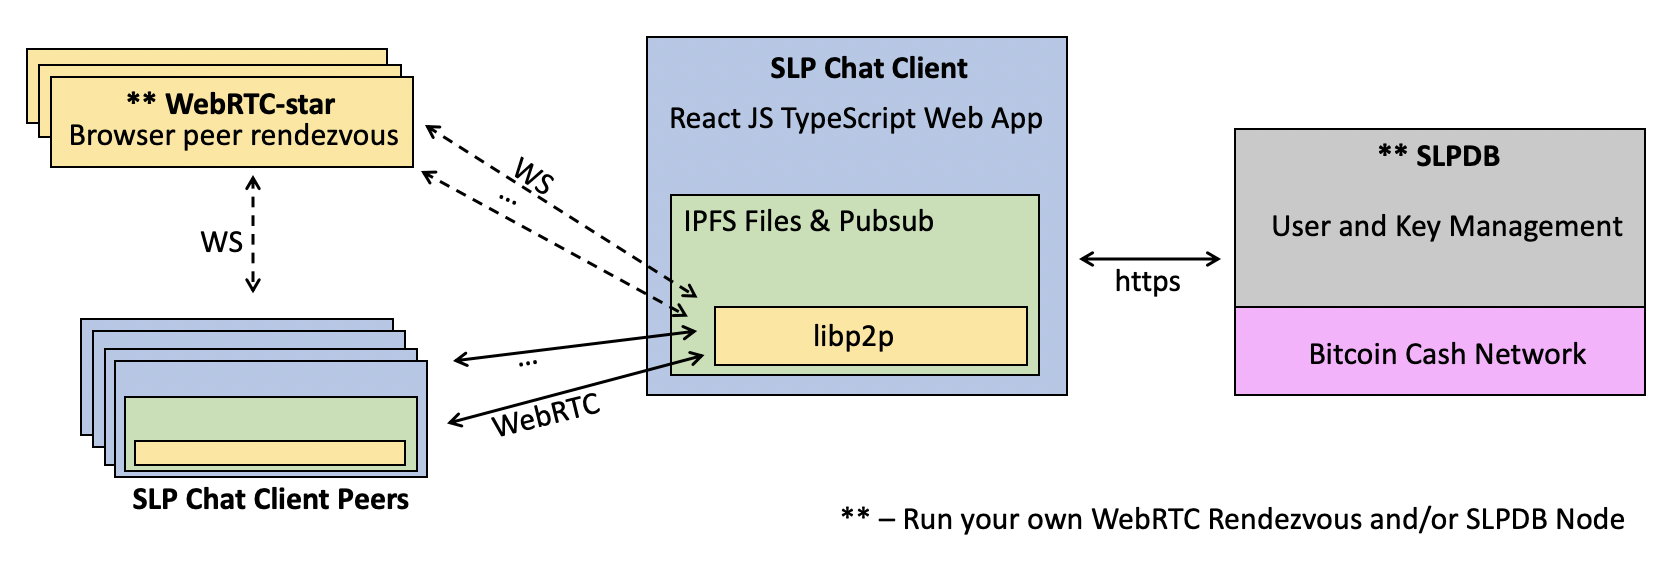
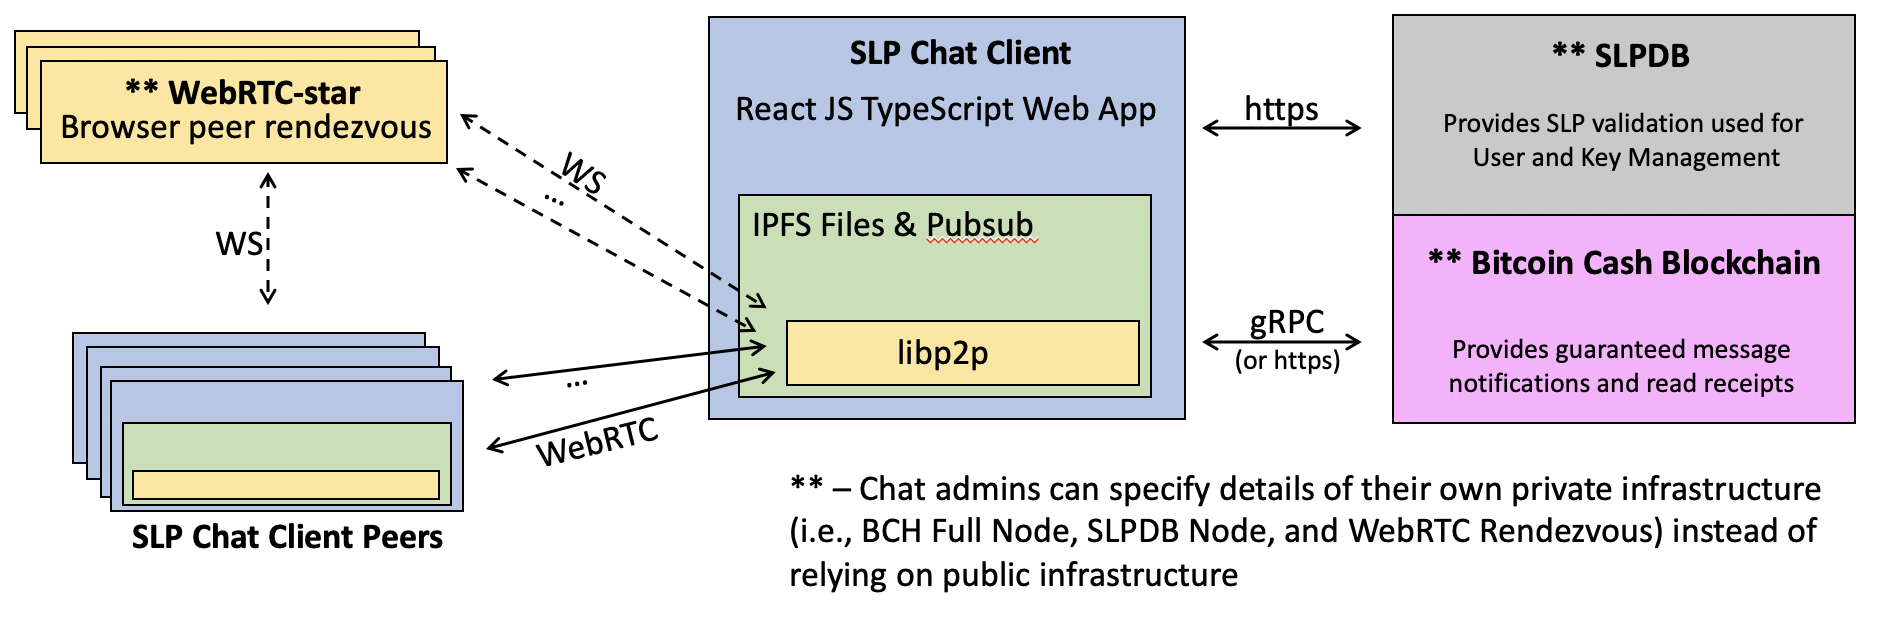
updates for improving message reliability using on-chain messages

diff --git a/apps/slp-chat/slpchat.md b/apps/slp-chat/slpchat.md
@@ -8,12 +8,13 @@
 
 ## Introduction
 
-SLP Chat is a decentralized application (d-app) for participating in peer-to-peer group chat rooms with end-to-end encryption.  The application is open source and is designed in a way to permit interoperation with other implementations without requiring dependence on third-party services.  Chat room users can restore their chat group history by simply restoring their 12-word mnemonic seed phrase as long as one other group member is online to share chat history.
+SLP Chat is a decentralized application (d-app) for participating in peer-to-peer group chat rooms with end-to-end encryption and message notifications hardended by bitcoin transactions.  The application is open source and is designed in a way to permit interoperation with other implementations without requiring dependence on third-party services.  Chat room users can restore their chat group history by simply restoring their 12-word mnemonic seed phrase as long as one other group member is online to share chat history.
 
 The unique and highly motivating features this application will provide include:
 
 * group chat rooms with end-to-end encryption
-* native tipping with SLP tokens
+* high assurance message delivery and read receipt confirmations guarenteed by bitcoin transactions
+* native bitcoin and SLP token tipping
 * integrated workflows for interacting with smart contracts with chat group participants
 
 Group chat rooms are easy to setup and only require issuance of an [NFT1 Group](https://slp.dev/specs/slp-nft-1/) token by a chat room administrator, and users are added to the chat group be creating of NFTs from the NFT1 group which are sent to the chat room users.  The public key for each chat room member is embedded in the NFT genesis transaction and is used as the peer's identity in the peer-to-peer network and end-to-end message encryption.
@@ -38,7 +39,7 @@ Peer-to-peer connections between chat room users in the browser is accomplished 
 
 Both SLPDB and the WebRTC services can be configured by the chat room administrator and are not dependent on a third-party.  Most group admins would likely just leverage public WebRTC-star and SLPDB servers.
 
-
+Some situations do not allow a reliable connection via WebRTC.  Unreliable webRTC performance has been found to occur when a user is using a VPN, which is a basic requirement for many users.  Also offline users will never receive webRTC notifications since they are not not persisted to a data store.  Therefore, in order to provide high assurance for message notifications user message hashes will be published as a bitcoin transaction on the Bitcoin Cash blockchain as a payload as part of a Bitcoin Files Protocol transaction.
 
 ## SLP Token Data Scheme
 
@@ -52,13 +53,17 @@ New chat groups can be publicly listed as a known chat group ID by including the
 
 ## IPFS Data Scheme
 
-Users communicate with peers in real-time using libp2p pubsub.  There are currently only three types of messages sent via pubsub:
+Users communicate with peers in real-time using libp2p pubsub for all messaging.  Message types related to new message notifications and read receipts require high assurance, and so they need to also be published as bitcoin transactions using [Bitcoin Files Protocol](https://github.com/simpleledger/slp-specifications/blob/master/bitcoinfiles.md). 
 
-* `GROUP_SEND` - Used for sending a new group messages to connected peers
-* `NAME_REQUEST` - Used for requesting the current "myIpns" directory CID for a particular peerId
-* `NAME_RESPONSE` - Used for responding with the best known "myIpns" directory CID for a particular peerId
+There are currently only three types of messages sent via pubsub:
 
-Additionally, users store and pin their own messages on a locally running IPFS node.  In the reference SLP chat application there is an embedded IPFS node running within the javascript web application, and all of the data is stored within an IndexedDB and local storage.  The directory structure for the files stored by each user is illustrated below.  
+* `GROUP_SEND` - Used for sending a new group messages to connected peers (requires initial BFP transaction, then pubsub w/ topic=groupid)
+* `NAME_REQUEST` - Used for requesting the current "myIpns" directory CID for a particular peerId (pubsub only w/ topic=peerid)
+* `NAME_RESPONSE` - Used for responding with the best known "myIpns" directory CID for a particular peerId (pubsub only w/ topic=peerid)
+* `NAME_UPDATE` - Used for updating all subscribing peers with own name CID (pubsub only w/ topic=peerid)
+* `READ_RECEIPT` - Used for provide confirmation to the sender that a message was received and viewed (simultaneous pubsub w/ topic=groupid and BFP transaction)
+
+Users store and pin their own messages on a locally running IPFS node.  Admins can provide.  The directory structure for the files stored by each user is illustrated below.
 
 The IPFS files repository contains two main directories, `myIpns` and `files`.  
 
@@ -72,7 +77,7 @@ The IPFS files repository contains two main directories, `myIpns` and `files`.
 
 ### Messaging and File Formats
 
-The format for all pubsub messages between peers and IPFS files are defined using the following protobuf message definitions.  Some of the message definitions have not yet been implemented in the reference SLP chat application and are subject to change by the time this initial version of this specification is published.
+The format for all messages between peers and files are defined using the following protobuf message definitions.  Some of the message definitions have not yet been implemented in the reference SLP chat application and are subject to change by the time this initial version of this specification is published.
 
 ```protobuf
   syntax = "proto3";
@@ -80,9 +85,9 @@ The format for all pubsub messages between peers and IPFS files are defined usin
   // This message is used by all users located in the users's MFS
   // at: /myIpns/groups/<group id hex>/index
   message ChatGroupIndexFile {
-    string user_msg_dir_cid = 1;
-    string admin_group_info_cid = 2;  // used by admins only
-    string handle = 3;
+    string user_msg_dir_cid = 1;     // req, the CID hash of a directory containing the user's chat files for this group
+    string admin_group_info_cid = 2; // opt, used by admins only
+    string handle = 3;               // opt, user can set a custom handle for identification within the group
   }
 
   // This message can be optionally included within the Group Chat NFT1 Genesis transaction
@@ -97,7 +102,7 @@ The format for all pubsub messages between peers and IPFS files are defined usin
   // Currently this is not implemented anywhere.
   //
   message ChatGroupGenesisUrl {
-    bytes admin_pubkey = 1;
+    bytes admin_pubkey = 1;         // req, the public key associated with the administrator controlling the details of the group
   }
 
   // Group admin only: this is an optional document to provide
@@ -106,19 +111,23 @@ The format for all pubsub messages between peers and IPFS files are defined usin
   // Currently this is not implemented anywhere
   //
   message ChatGroupInfoFile {
-    string group_name = 1;
-    string group_description = 2;
-    string url = 3;
-    bool require_encryption = 4;
-    bool confidential_conversation = 5;
-    repeated string swarm_addresses = 6;
-    repeated string slpdb_addresses = 7;
+    int64 spec_version = 1;              // the spec version that new messages should follow, starts v1
+    string group_name = 2;               // opt, group name
+    string group_description = 3;        // opt, description
+    string url = 4;                      // opt, any url linked to info about the group
+    bool require_encryption = 5;         // req, will admin acknowledge unencrypted messages from clients
+    bool hardened_notifications = 6;     // req, p2p messages shall be hardened using BPF to prevent libp2p failure
+    bool confidential_conversation = 7;  // req, the information in the group is strictly confidential
+    repeated string swarm_addresses = 8; // opt, list of swarm addresses users should use for p2p connection 
+    repeated string slpdb_addresses = 9; // opt, list of slpdb urls available to the users (can be private)
+    repeated string bch_addresses = 10;  // opt, list of full nodes available to the users (can be private)
+    // ipfs_http_url = 11;               // future, pinning server url
   }
 
   // This message is for each chat user and shall be included
   // within the documentURL field of the user's NFT Genesis transaction.
   message ChatUserGenesisUrl {
-    bytes user_pubkey = 1;
+    bytes user_pubkey = 1;       // req, the public key associated with the user's identity
   }
 
   // This message represents the actual chat messages themselves, it is used
@@ -126,14 +135,14 @@ The format for all pubsub messages between peers and IPFS files are defined usin
   // fetch as a file from IPFS when resolving chat history
   message ChatMessagePayloadPb {
     enum ChatFileType {
-      UTF8 = 0;
-      FILE = 1;
-      ECIES_SECP256K1_UTF8 = 2;
-      ECIES_SECP256K1_FILE = 3;
+      UTF8 = 0;                  // used for clear text chat messages
+      FILE = 1;                  // used for clear file transfer
+      ECIES_SECP256K1_UTF8 = 2;  // used for encrypted text chat messages
+      ECIES_SECP256K1_FILE = 3;  // used for encrypted fil transfer
     }
     message ChatMessagePayloadItemPb {
-        bytes payload = 1;
-        bytes pubkey = 2;
+      bytes payload = 1;         // req, message payload having a format identified by "type"
+      bytes pubkey = 2;          // opt, pubkey identifying the intended recipient of the payload
     }
     ChatFileType type = 1;
     repeated ChatMessagePayloadItemPb payload = 2;
@@ -147,20 +156,28 @@ The format for all pubsub messages between peers and IPFS files are defined usin
       GROUP_SEND = 0;
       NAME_REQUEST = 1;
       NAME_RESPONSE = 2;
+      NAME_UPDATE = 3;
+      READ_RECEIPT = 4;
     }
-    PubsubType type = 1;
-    bytes payload = 2;
+    PubsubType type = 1;    // req, type of pubsub message
+    bytes payload = 2;      // opt, pubsub message payload having format identified by "type"
   }
 
-  // This is the pubsub payload for GROUP_SEND
+  // This is a GROUP_SEND message notification is to be transported via libp2p pubsub and
+  // as a Bitcoin Files Protocol (BFP) payload.
+  // 
+  // Transport requirements:
+  // * pubsub: shall be published with topic=<group_id_hex_lowercase>
+  // * BFP: shall be published with dust being sent to the sender
+  //
   message PubsubGroupSend {
     bytes groupid = 1;
     int64 time = 2;
     string msg_cid = 3;
     string msg_dir_cid = 4;
     string name_dir_cid = 5;
-    bytes name_dir_cid_sig = 6;
-    bytes message = 7;
+    bytes name_dir_cid_sig = 6;   // v1 req
+    bytes message = 7;            // v1 opt, include the chat message payload (associated with msg_cid) for fast client loading
   }
 
   // This is the pubsub payload for NAME_REQUEST
@@ -177,6 +194,10 @@ The format for all pubsub messages between peers and IPFS files are defined usin
     string cid = 2;
     int64 time = 3;
     bytes cid_sig = 4;
+  }
+
+  message PubsubReceipt {
+    string cid = 1;
   }
 
   // This data structure can be used to persist the Mapping of
@@ -202,4 +223,3 @@ The format for all pubsub messages between peers and IPFS files are defined usin
     repeated MapItem pinset = 1;
   }
 ```
-
